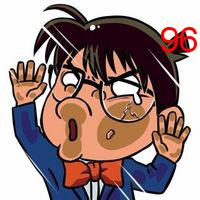
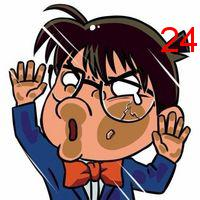
solve question 0000

Changed region(s): [[0.78, 0.12, 1.0, 0.3]]

diff --git a/ZsnnsZ/0000/0000.py b/ZsnnsZ/0000/0000.py
@@ -4,22 +4,22 @@
 from PIL import Image, ImageDraw, ImageFont
 import random
 
-origin_image = 'ori_img.jpg'
-marked_image = 'new_img.jpg'
+ori_img = 'ori_img.jpg'
+new_img = 'new_img.jpg'
 
-def draw_text(text, color):
+def add_num(text, color):
     try:
-        im = Image.open(origin_image)
+        im = Image.open(ori_img)
     except:
         print ("Unable to load image")
-    width, height =  im.size
+    width, height = im.size
     draw = ImageDraw.Draw(im)
     font = ImageFont.truetype('Arial.ttf', 35)
     draw.text((width * 0.8, height * 0.1), text, color, font)      
-    im.save(marked_image)
+    im.save(new_img)
     im.show()
     
 if __name__ == "__main__":
 	number = str(random.randint(1,99))
 	color = (255, 0, 0)
-	draw_text(number, color)
+	add_num(number, color)
